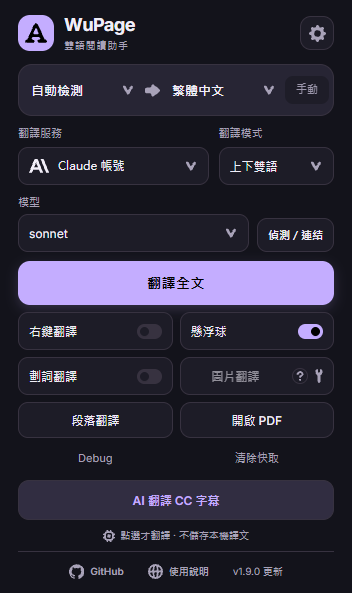
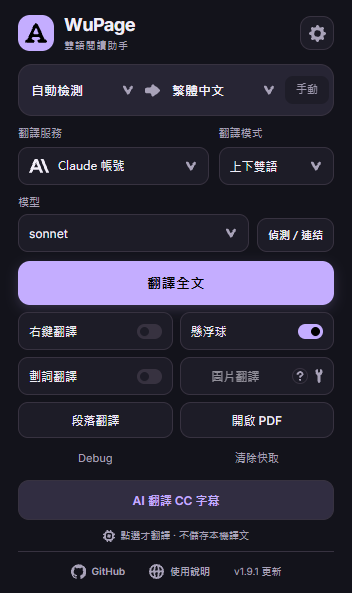
fix: accept Windows short paths and refresh popup test fixtures

Changed region(s): [[0.4062, 0.941, 0.5938, 0.9713], [0.1875, 0.941, 0.375, 0.9713], [0.6562, 0.941, 0.8125, 0.9713]]

diff --git a/tests/popup-cc.test.ts b/tests/popup-cc.test.ts
@@ -24,10 +24,11 @@ async function setup(url = "https://www.youtube.com/watch?v=test", initiallyEnab
       return { ok: true, data: { opened: true, enabled, phase: enabled ? phase : "idle" } };
     }
     if (request.type === "GET_OCR_STATUS") return { ok: true, data: { state: "missing", downloaded: 0, total: 0 } };
+    if (request.type === "GET_EXTENSION_UPDATE") return { ok: true, data: { available: false, autoCheck: true, autoInstall: false } };
     return { ok: true };
   });
   vi.stubGlobal("chrome", {
-    runtime: { id: "cc-test", openOptionsPage: vi.fn(), sendMessage },
+    runtime: { id: "cc-test", getManifest: () => ({ version: "1.0.0" }), openOptionsPage: vi.fn(), sendMessage },
     storage: { local: { get: async () => ({}) }, onChanged: { addListener: vi.fn(), removeListener: vi.fn() } },
     tabs: { query: async () => [{ id: 4, url }], sendMessage: async () => ({ ok: true, data: { enabled: false, translated: false } }) }
   });

diff --git a/tests/popup-menu.test.ts b/tests/popup-menu.test.ts
@@ -34,8 +34,9 @@ describe("popup menu preferences", () => {
     applyPopupMenuLayout(document, { order, hidden: [] });
     expect([...document.querySelector('[data-popup-menu-grid]')!.children].map(node => (node as HTMLElement).dataset.popupMenuItem))
       .toEqual(order.filter(id => !isPopupMenuLink(id)));
-    expect([...document.querySelector('[data-popup-menu-footer]')!.children].map(node => (node as HTMLElement).dataset.popupMenuItem))
+    expect([...document.querySelector('[data-popup-menu-footer]')!.children].map(node => (node as HTMLElement).dataset.popupMenuItem).filter(Boolean))
       .toEqual(["openGithub", "openWebsite"]);
+    expect(document.querySelector('[data-popup-menu-footer] #extensionUpdateSummary')).not.toBeNull();
     expect(document.querySelector("#contextMenuTranslation")).toBe(button);
     expect(document.querySelector("#ocrModelAction")).toBe(helper);
     expect(button.getAttribute("aria-pressed")).toBe("true");

diff --git a/README.md b/README.md
@@ -86,7 +86,7 @@ Chrome 版使用公開金鑰固定開發版識別碼 `lfhpgjnpadlfkafdnbeepfpjhf
 
 ## 擴充自動更新
 
-**v1.9.0 是第一次提供更新功能的版本。** 舊版請先手動下載新版擴充與橋接；之後可由小視窗底部的版本按鈕，或設定頁「擴充更新」管理更新。
+**v1.9.1 是第一次提供更新功能的版本。** 舊版請先手動下載新版擴充與橋接；之後可由小視窗底部的版本按鈕，或設定頁「擴充更新」管理更新。
 
 - 預設每 6 小時向本儲存庫 GitHub Release 檢查穩定版，可關閉；也可按「立即檢查」。小視窗會提示新版，不會送出網頁內容或啟動 AI 登入。
 - **Chrome 自動安裝**：先將新版橋接解壓到原橋接資料夾，執行下列指令（把路徑換成在 `chrome://extensions` 載入的擴充資料夾），再到設定頁開啟「自動安裝 Chrome 更新」。預設不自動覆寫檔案。

diff --git a/docs/release-notes.md b/docs/release-notes.md
@@ -1,4 +1,6 @@
-v1.9.0 新增擴充更新功能，並修正 YouTube CC 字幕重複出現多個 AI 按鈕。
+v1.9.1 新增擴充更新功能，並修正 YouTube CC 字幕重複出現多個 AI 按鈕。
+
+修正 Windows 8.3 縮短路徑被誤判為符號連結的相容性問題；仍拒絕實際符號連結及 junction。
 
 - 小視窗底部顯示版本及新版提示；設定頁新增「擴充更新」。預設每 6 小時檢查 GitHub 穩定版，可關閉或立即檢查。
 - Chrome 可透過新版 Windows 橋接安裝更新。第一次以 `install.ps1 -Browser Chrome -ChromeExtensionPath "D:\WuPage\chrome"` 指定目前載入的擴充資料夾，再於設定開啟自動安裝；預設不覆寫。更新核對 SHA-256、擴充識別碼與版本，失敗保留或還原原檔，保留瀏覽器翻譯與模型設定。
